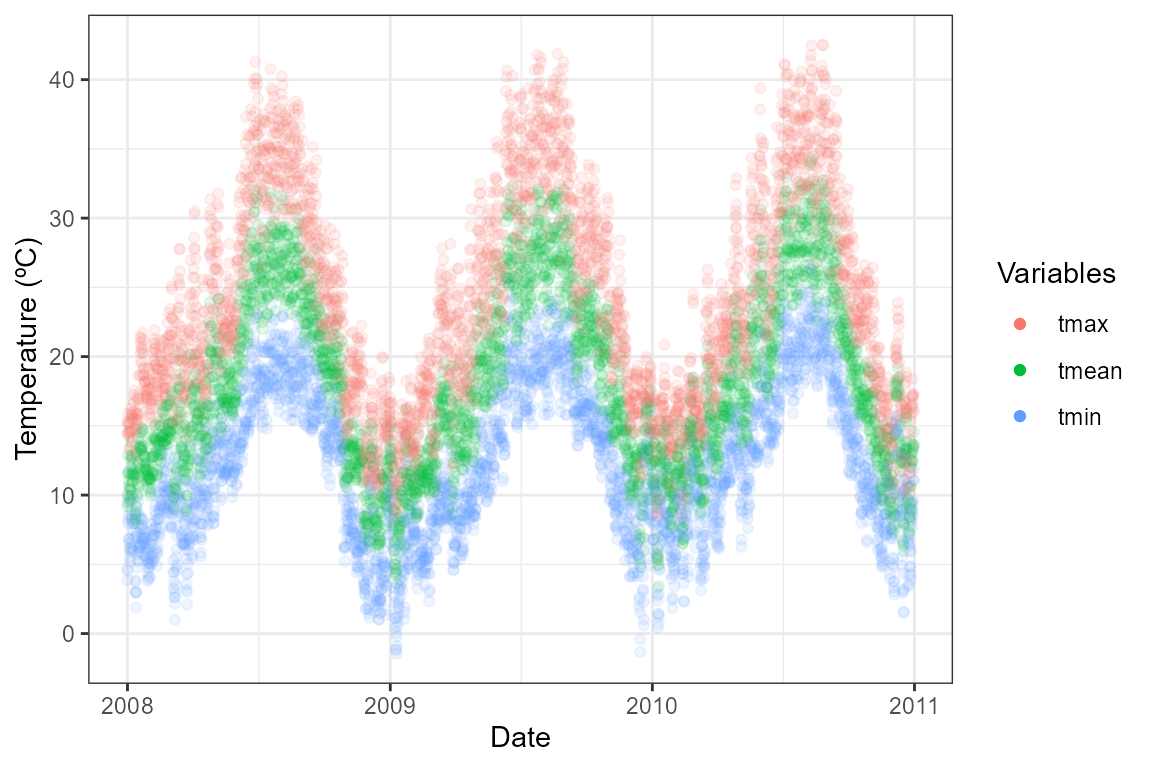
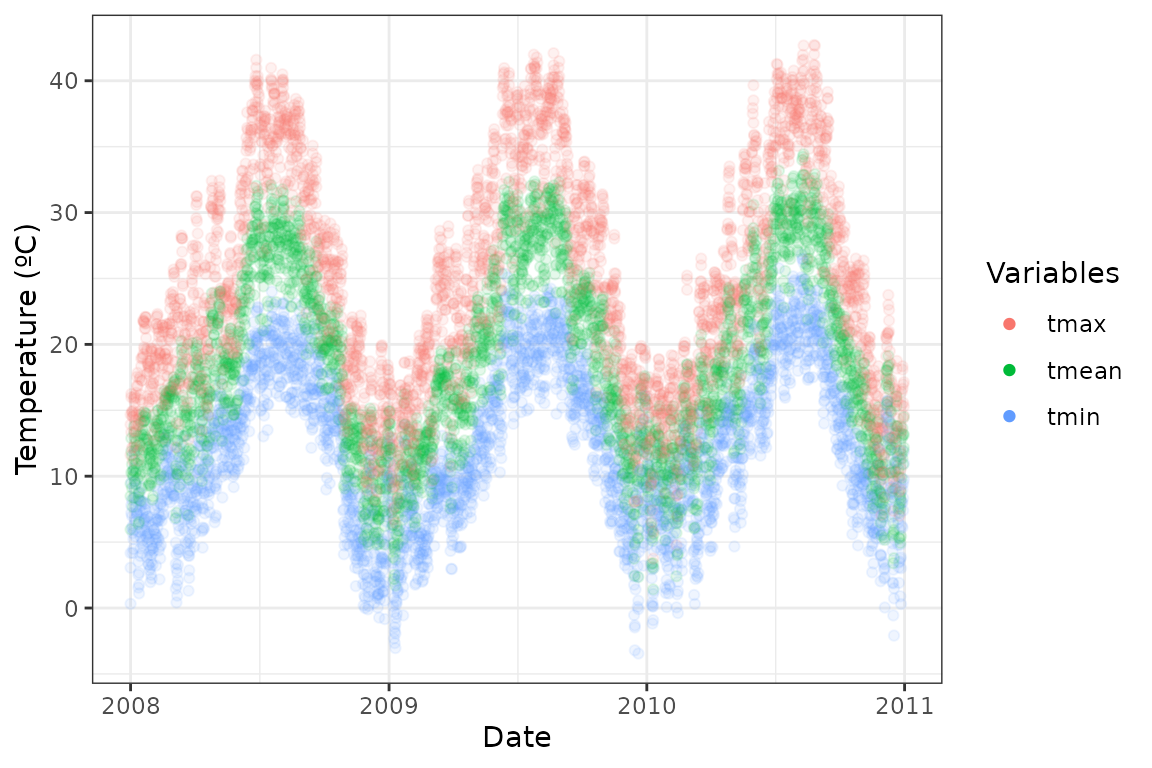
pkgdown

diff --git a/docs/articles/points-df-mat-sf.html b/docs/articles/points-df-mat-sf.html
@@ -82,7 +82,7 @@
 
       
 
-      </header><script src="points-df-mat-sf_files/header-attrs-2.8/header-attrs.js"></script><div class="row">
+      </header><script src="points-df-mat-sf_files/header-attrs-2.11/header-attrs.js"></script><div class="row">
   <div class="col-md-9 contents">
     <div class="page-header toc-ignore">
       <h1 data-toc-skip>Analysing the climate at spatial points for a given period</h1>
@@ -95,7 +95,6 @@
 
     
     
-<pre><code>## Warning: package 'knitr' was built under R version 4.0.5</code></pre>
 <p>With <code>easyclimate</code> you can easily download daily climate data for a given set of points or polygons within Europe. To download and install the latest version of <code>easyclimate</code> from github follow the instructions in <a href="https://github.com/VeruGHub/easyclimate" class="uri">https://github.com/VeruGHub/easyclimate</a></p>
 <p><br></p>
 <p>In this tutorial we will work through the basics of using easyclimate with coordinate points. You can enter coordinates as a <code>data.frame</code>, <code>matrix</code>, or <code>sf</code> object. At the end we will have a data frame with climate variables for each point.</p>
@@ -104,7 +103,7 @@
 <h1 class="hasAnchor">
 <a href="#example-1-introducing-coordinates-as-a-data-frame" class="anchor"></a>Example 1: Introducing coordinates as a data frame</h1>
 <p>First, specify longitude and latitude coordinates in a data frame with the column names <code>lon</code> and <code>lat</code>. Here we are simulating coordinates for three random sites in southern Spain</p>
-<div class="sourceCode" id="cb2"><pre class="downlit sourceCode r">
+<div class="sourceCode" id="cb1"><pre class="downlit sourceCode r">
 <code class="sourceCode R"><span class="kw"><a href="https://rdrr.io/r/base/library.html">library</a></span><span class="op">(</span><span class="va"><a href="https://github.com/VeruGHub/easyclimate">easyclimate</a></span><span class="op">)</span>
 <span class="kw"><a href="https://rdrr.io/r/base/library.html">library</a></span><span class="op">(</span><span class="va"><a href="https://ggplot2.tidyverse.org">ggplot2</a></span><span class="op">)</span>
 <span class="kw"><a href="https://rdrr.io/r/base/library.html">library</a></span><span class="op">(</span><span class="va"><a href="https://dplyr.tidyverse.org">dplyr</a></span><span class="op">)</span>
@@ -124,10 +123,10 @@
 <p><img src="points-df-mat-sf_files/figure-html/unnamed-chunk-1-1.png" width="576"></p>
 <p><br></p>
 <p>Now, download the climatic data for the selected locations. It is very simple, all you have to do is use the function <code>get_daily_climate</code>, specify the period (e.g. <code>2008-05-25</code> for a single day or <code>2008:2010</code> for several years), and the variables to be downloaded (precipitation <code>Prcp</code>, minimum temperature <code>Tmin</code> or maximum temperature <code>Tmax</code>).</p>
-<div class="sourceCode" id="cb3"><pre class="downlit sourceCode r">
+<div class="sourceCode" id="cb2"><pre class="downlit sourceCode r">
 <code class="sourceCode R">
 <span class="fu"><a href="https://rdrr.io/r/base/Sys.time.html">Sys.time</a></span><span class="op">(</span><span class="op">)</span> <span class="co"># to know how much it takes to download</span>
-<span class="co">## [1] "2021-07-09 23:33:45 EDT"</span>
+<span class="co">## [1] "2021-10-14 11:55:41 CEST"</span>
 
 <span class="va">df_prcp</span> <span class="op">&lt;-</span> <span class="fu"><a href="../reference/get_daily_climate.html">get_daily_climate</a></span><span class="op">(</span>
   coords <span class="op">=</span> <span class="va">coords</span>, 
@@ -148,18 +147,18 @@
 <span class="op">)</span>
 
 <span class="fu"><a href="https://rdrr.io/r/base/Sys.time.html">Sys.time</a></span><span class="op">(</span><span class="op">)</span>
-<span class="co">## [1] "2021-07-09 23:39:36 EDT"</span>
+<span class="co">## [1] "2021-10-14 11:57:28 CEST"</span>
 
 <span class="fu"><a href="https://rdrr.io/pkg/terra/man/headtail.html">head</a></span><span class="op">(</span><span class="va">df_prcp</span><span class="op">[</span>, <span class="fu"><a href="https://rdrr.io/pkg/terra/man/c.html">c</a></span><span class="op">(</span><span class="st">"lon"</span>, <span class="st">"lat"</span>, <span class="st">"date"</span>, <span class="st">"Prcp"</span><span class="op">)</span><span class="op">]</span><span class="op">)</span>
 <span class="co">##         lon      lat       date Prcp</span>
-<span class="co">## 1 -5.836705 37.42518 2008-01-01  730</span>
-<span class="co">## 2 -5.836705 37.42518 2008-01-02 2349</span>
-<span class="co">## 3 -5.836705 37.42518 2008-01-03  309</span>
-<span class="co">## 4 -5.836705 37.42518 2008-01-04    0</span>
-<span class="co">## 5 -5.836705 37.42518 2008-01-05    0</span>
-<span class="co">## 6 -5.836705 37.42518 2008-01-06    0</span></code></pre></div>
+<span class="co">## 1 -5.356912 37.69926 2008-01-01  518</span>
+<span class="co">## 2 -5.356912 37.69926 2008-01-02 2720</span>
+<span class="co">## 3 -5.356912 37.69926 2008-01-03  560</span>
+<span class="co">## 4 -5.356912 37.69926 2008-01-04    0</span>
+<span class="co">## 5 -5.356912 37.69926 2008-01-05    0</span>
+<span class="co">## 6 -5.356912 37.69926 2008-01-06    0</span></code></pre></div>
 <p>Temperature and precipitation units are ºC*100 and mm*100, respectively, to avoid floating values. You can change the units using the mutate function and join all the variables in a data frame.</p>
-<div class="sourceCode" id="cb4"><pre class="downlit sourceCode r">
+<div class="sourceCode" id="cb3"><pre class="downlit sourceCode r">
 <code class="sourceCode R">
 <span class="va">prcp_date</span> <span class="op">&lt;-</span> <span class="va">df_prcp</span> <span class="op">%&gt;%</span>
   <span class="fu"><a href="https://dplyr.tidyverse.org/reference/mutate.html">mutate</a></span><span class="op">(</span>prcp <span class="op">=</span> <span class="va">Prcp</span> <span class="op">/</span> <span class="fl">100</span><span class="op">)</span> <span class="op">%&gt;%</span> 
@@ -200,75 +199,75 @@
 <tbody>
 <tr class="odd">
 <td align="right">1</td>
-<td align="right">-5.836705</td>
-<td align="right">37.42518</td>
+<td align="right">-5.356912</td>
+<td align="right">37.69926</td>
 <td align="left">2008-01-01</td>
 <td align="left">08</td>
 <td align="left">enero</td>
-<td align="right">7.30</td>
-<td align="right">4.52</td>
-<td align="right">14.39</td>
+<td align="right">5.18</td>
+<td align="right">3.06</td>
+<td align="right">13.92</td>
 </tr>
 <tr class="even">
 <td align="right">1</td>
-<td align="right">-5.836705</td>
-<td align="right">37.42518</td>
+<td align="right">-5.356912</td>
+<td align="right">37.69926</td>
 <td align="left">2008-01-02</td>
 <td align="left">08</td>
 <td align="left">enero</td>
-<td align="right">23.49</td>
-<td align="right">9.85</td>
-<td align="right">15.91</td>
+<td align="right">27.20</td>
+<td align="right">7.79</td>
+<td align="right">15.99</td>
 </tr>
 <tr class="odd">
 <td align="right">1</td>
-<td align="right">-5.836705</td>
-<td align="right">37.42518</td>
+<td align="right">-5.356912</td>
+<td align="right">37.69926</td>
 <td align="left">2008-01-03</td>
 <td align="left">08</td>
 <td align="left">enero</td>
-<td align="right">3.09</td>
-<td align="right">8.54</td>
-<td align="right">14.60</td>
+<td align="right">5.60</td>
+<td align="right">6.97</td>
+<td align="right">14.82</td>
 </tr>
 <tr class="even">
 <td align="right">1</td>
-<td align="right">-5.836705</td>
-<td align="right">37.42518</td>
+<td align="right">-5.356912</td>
+<td align="right">37.69926</td>
 <td align="left">2008-01-04</td>
 <td align="left">08</td>
 <td align="left">enero</td>
 <td align="right">0.00</td>
-<td align="right">6.55</td>
-<td align="right">14.21</td>
+<td align="right">5.68</td>
+<td align="right">14.50</td>
 </tr>
 <tr class="odd">
 <td align="right">1</td>
-<td align="right">-5.836705</td>
-<td align="right">37.42518</td>
+<td align="right">-5.356912</td>
+<td align="right">37.69926</td>
 <td align="left">2008-01-05</td>
 <td align="left">08</td>
 <td align="left">enero</td>
 <td align="right">0.00</td>
-<td align="right">6.21</td>
-<td align="right">14.64</td>
+<td align="right">5.23</td>
+<td align="right">14.73</td>
 </tr>
 <tr class="even">
 <td align="right">1</td>
-<td align="right">-5.836705</td>
-<td align="right">37.42518</td>
+<td align="right">-5.356912</td>
+<td align="right">37.69926</td>
 <td align="left">2008-01-06</td>
 <td align="left">08</td>
 <td align="left">enero</td>
 <td align="right">0.00</td>
-<td align="right">12.06</td>
-<td align="right">15.52</td>
+<td align="right">10.62</td>
+<td align="right">15.99</td>
 </tr>
 </tbody>
 </table>
 <p><br></p>
 <p>Finally, you can visualize the daily climate results. For example, let’s plot the precipitation for one of the sites:</p>
-<div class="sourceCode" id="cb5"><pre class="downlit sourceCode r">
+<div class="sourceCode" id="cb4"><pre class="downlit sourceCode r">
 <code class="sourceCode R"><span class="va">clim_site1</span> <span class="op">&lt;-</span> <span class="va">clim_join</span> <span class="op">%&gt;%</span> 
   <span class="fu"><a href="https://dplyr.tidyverse.org/reference/filter.html">filter</a></span><span class="op">(</span><span class="va">ID_coords</span> <span class="op">==</span> <span class="fl">1</span><span class="op">)</span>
 
@@ -279,12 +278,12 @@
 <p><img src="points-df-mat-sf_files/figure-html/unnamed-chunk-4-1.png" width="576"></p>
 <p><br></p>
 <p>Or calculate the daily mean temperature and plot it against <code>tmin</code> and <code>tmax</code>:</p>
-<div class="sourceCode" id="cb6"><pre class="downlit sourceCode r">
+<div class="sourceCode" id="cb5"><pre class="downlit sourceCode r">
 <code class="sourceCode R"><span class="kw"><a href="https://rdrr.io/r/base/library.html">library</a></span><span class="op">(</span><span class="va"><a href="https://tidyr.tidyverse.org">tidyr</a></span><span class="op">)</span>
 
 <span class="va">clim_df</span> <span class="op">&lt;-</span> <span class="va">clim_join</span> <span class="op">%&gt;%</span>
   <span class="fu"><a href="https://dplyr.tidyverse.org/reference/mutate.html">mutate</a></span><span class="op">(</span>tmean <span class="op">=</span> <span class="op">(</span><span class="va">tmin</span> <span class="op">+</span> <span class="va">tmax</span><span class="op">)</span> <span class="op">/</span> <span class="fl">2</span><span class="op">)</span> <span class="op">%&gt;%</span>
-  <span class="fu"><a href="https://tidyr.tidyverse.org/reference/pivot_longer.html">pivot_longer</a></span><span class="op">(</span>
+  <span class="fu"><a href="https://rdrr.io/pkg/tidyr/man/pivot_longer.html">pivot_longer</a></span><span class="op">(</span>
     cols <span class="op">=</span> <span class="fu"><a href="https://rdrr.io/pkg/terra/man/c.html">c</a></span><span class="op">(</span><span class="st">"tmin"</span>, <span class="st">"tmax"</span>, <span class="st">"tmean"</span><span class="op">)</span>,
     names_to <span class="op">=</span> <span class="st">"temp_vars"</span>,
     values_to <span class="op">=</span> <span class="st">"temp_values"</span><span class="op">)</span>
@@ -295,11 +294,11 @@
   <span class="fu"><a href="https://ggplot2.tidyverse.org/reference/labs.html">ylab</a></span><span class="op">(</span><span class="st">"Temperature (ºC)"</span><span class="op">)</span> <span class="op">+</span> <span class="fu"><a href="https://ggplot2.tidyverse.org/reference/labs.html">xlab</a></span><span class="op">(</span><span class="st">""</span><span class="op">)</span> <span class="op">+</span>
   <span class="fu"><a href="https://ggplot2.tidyverse.org/reference/ggtheme.html">theme_bw</a></span><span class="op">(</span><span class="op">)</span></code></pre></div>
 <p><img src="points-df-mat-sf_files/figure-html/unnamed-chunk-5-1.png" width="576"></p>
-<div class="sourceCode" id="cb7"><pre class="downlit sourceCode r">
+<div class="sourceCode" id="cb6"><pre class="downlit sourceCode r">
 <code class="sourceCode R">
 <span class="fu"><a href="https://ggplot2.tidyverse.org/reference/ggplot.html">ggplot</a></span><span class="op">(</span><span class="va">clim_df</span>, <span class="fu"><a href="https://ggplot2.tidyverse.org/reference/aes.html">aes</a></span><span class="op">(</span>x <span class="op">=</span> <span class="va">date</span>, y <span class="op">=</span> <span class="va">temp_values</span>, color <span class="op">=</span> <span class="va">temp_vars</span><span class="op">)</span><span class="op">)</span> <span class="op">+</span> 
   <span class="fu"><a href="https://ggplot2.tidyverse.org/reference/geom_point.html">geom_point</a></span><span class="op">(</span>alpha <span class="op">=</span> <span class="fl">.1</span><span class="op">)</span> <span class="op">+</span>
-  <span class="fu"><a href="https://ggplot2.tidyverse.org/reference/scale_hue.html">scale_color_discrete</a></span><span class="op">(</span>name <span class="op">=</span> <span class="st">"Variables"</span>, 
+  <span class="fu"><a href="https://ggplot2.tidyverse.org/reference/scale_colour_discrete.html">scale_color_discrete</a></span><span class="op">(</span>name <span class="op">=</span> <span class="st">"Variables"</span>, 
                        guide <span class="op">=</span> <span class="fu"><a href="https://ggplot2.tidyverse.org/reference/guide_legend.html">guide_legend</a></span><span class="op">(</span>override.aes <span class="op">=</span> <span class="fu"><a href="https://rdrr.io/r/base/list.html">list</a></span><span class="op">(</span>alpha <span class="op">=</span> <span class="fl">1</span><span class="op">)</span><span class="op">)</span><span class="op">)</span> <span class="op">+</span>
   <span class="fu"><a href="https://ggplot2.tidyverse.org/reference/labs.html">ylab</a></span><span class="op">(</span><span class="st">"Temperature (ºC)"</span><span class="op">)</span> <span class="op">+</span> <span class="fu"><a href="https://ggplot2.tidyverse.org/reference/labs.html">xlab</a></span><span class="op">(</span><span class="st">"Date"</span><span class="op">)</span> <span class="op">+</span>
   <span class="fu"><a href="https://ggplot2.tidyverse.org/reference/ggtheme.html">theme_bw</a></span><span class="op">(</span><span class="op">)</span></code></pre></div>
@@ -311,12 +310,12 @@
 <a href="#example-2-introducing-coordinates-as-a-matrix" class="anchor"></a>Example 2: Introducing coordinates as a matrix</h1>
 <p><code>easyclimate</code> handles different input data, try now with matrices!</p>
 <p>Here we are retrieving daily precipitation data for a single year (2008).</p>
-<div class="sourceCode" id="cb8"><pre class="downlit sourceCode r">
+<div class="sourceCode" id="cb7"><pre class="downlit sourceCode r">
 <code class="sourceCode R">
 <span class="va">coords_mat</span> <span class="op">&lt;-</span> <span class="fu"><a href="https://rdrr.io/pkg/terra/man/coerce.html">as.matrix</a></span><span class="op">(</span><span class="va">coords</span><span class="op">)</span>
 
 <span class="fu"><a href="https://rdrr.io/r/base/Sys.time.html">Sys.time</a></span><span class="op">(</span><span class="op">)</span>
-<span class="co">## [1] "2021-07-09 23:39:42 EDT"</span>
+<span class="co">## [1] "2021-10-14 11:57:29 CEST"</span>
 
 <span class="va">mat_prcp</span> <span class="op">&lt;-</span> <span class="fu"><a href="../reference/get_daily_climate.html">get_daily_climate</a></span><span class="op">(</span> 
   coords <span class="op">=</span> <span class="va">coords_mat</span>, 
@@ -325,16 +324,16 @@
 <span class="op">)</span>
 
 <span class="fu"><a href="https://rdrr.io/r/base/Sys.time.html">Sys.time</a></span><span class="op">(</span><span class="op">)</span>
-<span class="co">## [1] "2021-07-09 23:40:01 EDT"</span>
+<span class="co">## [1] "2021-10-14 11:57:36 CEST"</span>
 
 <span class="fu"><a href="https://rdrr.io/pkg/terra/man/headtail.html">head</a></span><span class="op">(</span><span class="va">mat_prcp</span><span class="op">)</span>
 <span class="co">##   ID_coords         x        y       date Prcp</span>
-<span class="co">## 1         1 -5.836705 37.42518 2008-01-01  730</span>
-<span class="co">## 2         1 -5.836705 37.42518 2008-01-02 2349</span>
-<span class="co">## 3         1 -5.836705 37.42518 2008-01-03  309</span>
-<span class="co">## 4         1 -5.836705 37.42518 2008-01-04    0</span>
-<span class="co">## 5         1 -5.836705 37.42518 2008-01-05    0</span>
-<span class="co">## 6         1 -5.836705 37.42518 2008-01-06    0</span>
+<span class="co">## 1         1 -5.356912 37.69926 2008-01-01  518</span>
+<span class="co">## 2         1 -5.356912 37.69926 2008-01-02 2720</span>
+<span class="co">## 3         1 -5.356912 37.69926 2008-01-03  560</span>
+<span class="co">## 4         1 -5.356912 37.69926 2008-01-04    0</span>
+<span class="co">## 5         1 -5.356912 37.69926 2008-01-05    0</span>
+<span class="co">## 6         1 -5.356912 37.69926 2008-01-06    0</span>
 
 <span class="va">clim_mat</span> <span class="op">&lt;-</span> <span class="va">mat_prcp</span> <span class="op">%&gt;%</span>
   <span class="fu"><a href="https://dplyr.tidyverse.org/reference/mutate.html">mutate</a></span><span class="op">(</span>
@@ -353,7 +352,7 @@
   <span class="fu"><a href="https://ggplot2.tidyverse.org/reference/labs.html">ylab</a></span><span class="op">(</span><span class="st">"Daily precipitation (mm)"</span><span class="op">)</span> <span class="op">+</span> <span class="fu"><a href="https://ggplot2.tidyverse.org/reference/labs.html">xlab</a></span><span class="op">(</span><span class="st">"Date"</span><span class="op">)</span> <span class="op">+</span>
   <span class="fu"><a href="https://ggplot2.tidyverse.org/reference/ggtheme.html">theme_bw</a></span><span class="op">(</span><span class="op">)</span></code></pre></div>
 <p><img src="points-df-mat-sf_files/figure-html/unnamed-chunk-6-1.png" width="576"></p>
-<div class="sourceCode" id="cb9"><pre class="downlit sourceCode r">
+<div class="sourceCode" id="cb8"><pre class="downlit sourceCode r">
 <code class="sourceCode R">
 <span class="va">month_name</span> <span class="op">&lt;-</span> <span class="fu"><a href="https://rdrr.io/r/base/format.html">format</a></span><span class="op">(</span><span class="fu"><a href="https://rdrr.io/r/base/ISOdatetime.html">ISOdate</a></span><span class="op">(</span><span class="fl">2021</span>, <span class="fl">1</span><span class="op">:</span><span class="fl">12</span>, <span class="fl">1</span><span class="op">)</span>, <span class="st">"%B"</span><span class="op">)</span>
 
@@ -372,7 +371,7 @@
 <h1 class="hasAnchor">
 <a href="#example-3-introducing-coordinates-as-simple-feature-objects" class="anchor"></a>Example 3: Introducing coordinates as simple feature objects</h1>
 <p>Here we introduce coordinates as a <code>sf</code> object, and retrieve minimum temperature for a single day (1 January 2001).</p>
-<div class="sourceCode" id="cb10"><pre class="downlit sourceCode r">
+<div class="sourceCode" id="cb9"><pre class="downlit sourceCode r">
 <code class="sourceCode R"><span class="kw"><a href="https://rdrr.io/r/base/library.html">library</a></span><span class="op">(</span><span class="va"><a href="https://r-spatial.github.io/sf/">sf</a></span><span class="op">)</span>
 
 <span class="va">coords_sf</span> <span class="op">&lt;-</span> <span class="fu"><a href="https://r-spatial.github.io/sf/reference/st_as_sf.html">st_as_sf</a></span><span class="op">(</span>

diff --git a/docs/articles/climatic-indices.html b/docs/articles/climatic-indices.html
@@ -82,7 +82,7 @@
 
       
 
-      </header><script src="climatic-indices_files/header-attrs-2.8/header-attrs.js"></script><div class="row">
+      </header><script src="climatic-indices_files/header-attrs-2.11/header-attrs.js"></script><div class="row">
   <div class="col-md-9 contents">
     <div class="page-header toc-ignore">
       <h1 data-toc-skip>Calculating basic climatic indices with data from easyclimate</h1>
@@ -140,7 +140,7 @@
   <span class="fu"><a href="https://dplyr.tidyverse.org/reference/summarise.html">summarise</a></span><span class="op">(</span>Tmin.site <span class="op">=</span> <span class="fu"><a href="https://rdrr.io/pkg/terra/man/summarize-generics.html">mean</a></span><span class="op">(</span><span class="va">Tmin</span><span class="op">)</span>,
             Tmean.site <span class="op">=</span> <span class="fu"><a href="https://rdrr.io/pkg/terra/man/summarize-generics.html">mean</a></span><span class="op">(</span><span class="va">Tmean</span><span class="op">)</span>,
             Tmax.site <span class="op">=</span> <span class="fu"><a href="https://rdrr.io/pkg/terra/man/summarize-generics.html">mean</a></span><span class="op">(</span><span class="va">Tmax</span><span class="op">)</span><span class="op">)</span>
-<span class="co">## # A tibble: 1 x 4</span>
+<span class="co">## # A tibble: 1 × 4</span>
 <span class="co">##   ID_coords Tmin.site Tmean.site Tmax.site</span>
 <span class="co">##       &lt;dbl&gt;     &lt;dbl&gt;      &lt;dbl&gt;     &lt;dbl&gt;</span>
 <span class="co">## 1         1      11.7       18.4      25.0</span>
@@ -521,7 +521,7 @@
     <span class="fu"><a href="https://dplyr.tidyverse.org/reference/summarise.html">summarise</a></span><span class="op">(</span>max_heatwave <span class="op">=</span> <span class="fu"><a href="https://rdrr.io/pkg/terra/man/summarize-generics.html">max</a></span><span class="op">(</span><span class="va">length</span><span class="op">)</span>, <span class="co"># longest heatwave per year (in days)</span>
               mean_heatwave <span class="op">=</span> <span class="fu"><a href="https://rdrr.io/pkg/terra/man/summarize-generics.html">mean</a></span><span class="op">(</span><span class="va">length</span><span class="op">)</span>, <span class="co"># average length of heatwaves per year</span>
               n_heatwave <span class="op">=</span> <span class="fu"><a href="https://dplyr.tidyverse.org/reference/context.html">n</a></span><span class="op">(</span><span class="op">)</span><span class="op">)</span> <span class="op">%&gt;%</span> <span class="co"># No. of events per year</span>
-    <span class="fu"><a href="https://tidyr.tidyverse.org/reference/complete.html">complete</a></span><span class="op">(</span><span class="va">ID_coords</span>, <span class="va">year</span>, 
+    <span class="fu"><a href="https://rdrr.io/pkg/tidyr/man/complete.html">complete</a></span><span class="op">(</span><span class="va">ID_coords</span>, <span class="va">year</span>, 
              fill <span class="op">=</span> <span class="fu"><a href="https://rdrr.io/r/base/list.html">list</a></span><span class="op">(</span>max_heatwave <span class="op">=</span> <span class="cn">NA</span>, mean_heatwave <span class="op">=</span> <span class="cn">NA</span>, nevents <span class="op">=</span> <span class="fl">0</span><span class="op">)</span><span class="op">)</span> <span class="op">%&gt;%</span> 
   <span class="fu">kable</span><span class="op">(</span>digits <span class="op">=</span> <span class="fl">1</span><span class="op">)</span></code></pre></div>
 <table class="table">
@@ -585,7 +585,7 @@
   <span class="fu"><a href="https://dplyr.tidyverse.org/reference/filter.html">filter</a></span><span class="op">(</span><span class="va">event</span> <span class="op">==</span> <span class="fl">1</span><span class="op">)</span> <span class="op">%&gt;%</span> 
   <span class="fu"><a href="https://dplyr.tidyverse.org/reference/group_by.html">group_by</a></span><span class="op">(</span><span class="va">ID_coords</span>, <span class="va">year</span>, <span class="va">n_frost</span><span class="op">)</span> <span class="op">%&gt;%</span> 
   <span class="fu"><a href="https://dplyr.tidyverse.org/reference/summarise.html">summarise</a></span><span class="op">(</span>Tmin_frost_avg <span class="op">=</span> <span class="fu"><a href="https://rdrr.io/pkg/terra/man/summarize-generics.html">mean</a></span><span class="op">(</span><span class="va">Tmin</span><span class="op">)</span><span class="op">/</span><span class="fl">100</span><span class="op">)</span> <span class="op">%&gt;%</span> <span class="co"># Mean minimum temperature of frost days</span>
-  <span class="fu"><a href="https://tidyr.tidyverse.org/reference/complete.html">complete</a></span><span class="op">(</span><span class="va">ID_coords</span>, <span class="va">year</span>, fill <span class="op">=</span> <span class="fu"><a href="https://rdrr.io/r/base/list.html">list</a></span><span class="op">(</span>n_frost <span class="op">=</span> <span class="fl">0</span>, Tmin_frost_avg <span class="op">=</span> <span class="cn">NA</span><span class="op">)</span><span class="op">)</span> <span class="op">%&gt;%</span> 
+  <span class="fu"><a href="https://rdrr.io/pkg/tidyr/man/complete.html">complete</a></span><span class="op">(</span><span class="va">ID_coords</span>, <span class="va">year</span>, fill <span class="op">=</span> <span class="fu"><a href="https://rdrr.io/r/base/list.html">list</a></span><span class="op">(</span>n_frost <span class="op">=</span> <span class="fl">0</span>, Tmin_frost_avg <span class="op">=</span> <span class="cn">NA</span><span class="op">)</span><span class="op">)</span> <span class="op">%&gt;%</span> 
   <span class="fu">kable</span><span class="op">(</span><span class="op">)</span></code></pre></div>
 <table class="table">
 <thead><tr class="header">
@@ -644,7 +644,7 @@
     <span class="fu"><a href="https://dplyr.tidyverse.org/reference/summarise.html">summarise</a></span><span class="op">(</span>max_days_norain <span class="op">=</span> <span class="fu"><a href="https://rdrr.io/pkg/terra/man/summarize-generics.html">max</a></span><span class="op">(</span><span class="va">length</span><span class="op">)</span>, <span class="co"># Maximum length of periods of consecutive days without rain per year</span>
               mean_days_norain <span class="op">=</span> <span class="fu"><a href="https://rdrr.io/pkg/terra/man/summarize-generics.html">mean</a></span><span class="op">(</span><span class="va">length</span><span class="op">)</span>, 
               nevents <span class="op">=</span> <span class="fu"><a href="https://rdrr.io/r/base/sum.html">sum</a></span><span class="op">(</span><span class="va">length</span> <span class="op">&gt;</span> <span class="va">threshold</span><span class="op">)</span><span class="op">)</span> <span class="op">%&gt;%</span> <span class="co"># No. of events per year</span>
-  <span class="fu"><a href="https://tidyr.tidyverse.org/reference/complete.html">complete</a></span><span class="op">(</span><span class="va">ID_coords</span>, <span class="va">year</span>, 
+  <span class="fu"><a href="https://rdrr.io/pkg/tidyr/man/complete.html">complete</a></span><span class="op">(</span><span class="va">ID_coords</span>, <span class="va">year</span>, 
            fill <span class="op">=</span> <span class="fu"><a href="https://rdrr.io/r/base/list.html">list</a></span><span class="op">(</span>max_days_norain <span class="op">=</span> <span class="cn">NA</span>, mean_days_norain <span class="op">=</span> <span class="cn">NA</span>, nevents <span class="op">=</span> <span class="fl">0</span><span class="op">)</span><span class="op">)</span> <span class="op">%&gt;%</span> 
   <span class="fu">kable</span><span class="op">(</span>digits <span class="op">=</span> <span class="fl">1</span><span class="op">)</span></code></pre></div>
 <table class="table">

diff --git a/docs/articles/polygons-raster.html b/docs/articles/polygons-raster.html
@@ -82,7 +82,7 @@
 
       
 
-      </header><script src="polygons-raster_files/header-attrs-2.8/header-attrs.js"></script><div class="row">
+      </header><script src="polygons-raster_files/header-attrs-2.11/header-attrs.js"></script><div class="row">
   <div class="col-md-9 contents">
     <div class="page-header toc-ignore">
       <h1 data-toc-skip>Analysing the climate of an area for a given period</h1>
@@ -106,7 +106,7 @@
 <span class="va">coords_t</span> <span class="op">&lt;-</span> <span class="fu"><a href="https://rdrr.io/pkg/terra/man/vect.html">vect</a></span><span class="op">(</span><span class="st">"POLYGON ((-4.5 41, -4.5 40.5, -5 40.5, -5 41))"</span><span class="op">)</span>
 
 <span class="fu"><a href="https://rdrr.io/r/base/Sys.time.html">Sys.time</a></span><span class="op">(</span><span class="op">)</span> <span class="co"># to know how much it takes to download</span>
-<span class="co">## [1] "2021-07-12 15:48:33 EDT"</span>
+<span class="co">## [1] "2021-10-14 11:57:54 CEST"</span>
 
 <span class="va">df_tmax</span> <span class="op">&lt;-</span> <span class="fu"><a href="../reference/get_daily_climate.html">get_daily_climate</a></span><span class="op">(</span>
   <span class="va">coords_t</span>,
@@ -116,7 +116,7 @@
   <span class="op">)</span>
 
 <span class="fu"><a href="https://rdrr.io/r/base/Sys.time.html">Sys.time</a></span><span class="op">(</span><span class="op">)</span>
-<span class="co">## [1] "2021-07-12 15:48:57 EDT"</span>
+<span class="co">## [1] "2021-10-14 11:58:07 CEST"</span>
 
 <span class="fu"><a href="https://rdrr.io/pkg/terra/man/headtail.html">head</a></span><span class="op">(</span><span class="va">df_tmax</span><span class="op">)</span>
 <span class="co">##   ID_coords         x        y       date Tmax</span>
@@ -161,7 +161,7 @@
 <div class="sourceCode" id="cb4"><pre class="downlit sourceCode r">
 <code class="sourceCode R">
 <span class="fu"><a href="https://rdrr.io/r/base/Sys.time.html">Sys.time</a></span><span class="op">(</span><span class="op">)</span>
-<span class="co">## [1] "2021-07-12 15:49:18 EDT"</span>
+<span class="co">## [1] "2021-10-14 11:58:09 CEST"</span>
 
 <span class="va">ras_tmax</span> <span class="op">&lt;-</span> <span class="fu"><a href="../reference/get_daily_climate.html">get_daily_climate</a></span><span class="op">(</span>
   <span class="va">coords_t</span>,
@@ -171,14 +171,14 @@
   <span class="op">)</span>
 
 <span class="fu"><a href="https://rdrr.io/r/base/Sys.time.html">Sys.time</a></span><span class="op">(</span><span class="op">)</span>
-<span class="co">## [1] "2021-07-12 15:49:42 EDT"</span>
+<span class="co">## [1] "2021-10-14 11:58:23 CEST"</span>
 
 <span class="va">ras_tmax</span>
 <span class="co">## class       : SpatRaster </span>
 <span class="co">## dimensions  : 60, 60, 2  (nrow, ncol, nlyr)</span>
 <span class="co">## resolution  : 0.008333333, 0.008333333  (x, y)</span>
 <span class="co">## extent      : -5, -4.5, 40.5, 41  (xmin, xmax, ymin, ymax)</span>
-<span class="co">## coord. ref. : +proj=longlat +datum=WGS84 +no_defs </span>
+<span class="co">## coord. ref. : lon/lat WGS 84 (EPSG:4326) </span>
 <span class="co">## source      : memory </span>
 <span class="co">## names       : 2012-01-01, 2012-08-01 </span>
 <span class="co">## min values  :        981,       2605 </span>

diff --git a/docs/index.html b/docs/index.html
@@ -88,9 +88,9 @@
       </header><div class="row">
   <div class="contents col-md-9">
 
-<div id="easyclimate" class="section level1">
+<div id="easyclimate-" class="section level1">
 <div class="page-header"><h1 class="hasAnchor">
-<a href="#easyclimate" class="anchor"></a><code>easyclimate</code>
+<a href="#easyclimate-" class="anchor"></a><code>easyclimate</code> <a href="https://verughub.github.io/easyclimate/"><img src="reference/figures/easyclimate_logo.png" align="right" height="139"></a>
 </h1></div>
 </div>
 <div id="easy-access-to-high-resolution-daily-climate-data-for-europe" class="section level1">
@@ -179,9 +179,9 @@
 <h2 class="hasAnchor">
 <a href="#citation" class="anchor"></a>CITATION</h2>
 <p>If you use easyclimate, please cite both the data source and the package as:</p>
+<p>Moreno A, Hasenauer H (2016). “Spatial downscaling of European climate data.” <em>International Journal of Climatology</em>, 1444–1458. &lt;URL: <a href="https://doi.org/10.1002/joc.4436" class="uri">https://doi.org/10.1002/joc.4436</a>&gt;.</p>
 <p>Rammer W, Pucher C, Neumann M (2018). <em>Description, Evaluation and Validation of Downscaled Daily Climate Data Version 2</em>. &lt;URL: <a href="ftp://palantir.boku.ac.at/Public/ClimateData/" class="uri">ftp://palantir.boku.ac.at/Public/ClimateData/</a>&gt;.</p>
-<p>Moreno A, Hasenauer H (2016). “Spatial downscaling of European climate data.” <em>International Journal of Climatology</em>, 1444–1458.</p>
-<p>Cruz-Alonso V, Rodríguez-Sánchez F, Pucher C, Ratcliffe S, Astigarraga J, Neumann M, Ruiz-Benito P (2021). <em>easyclimate: Easy access to high-resolution daily climate data for Europe</em>. &lt;URL: <a href="https://github.com/VeruGHub/easyclimate" class="uri">https://github.com/VeruGHub/easyclimate</a>&gt;.</p>
+<p>Cruz-Alonso V, Rodríguez-Sánchez F, Pucher C, Ruiz-Benito P, Astigarraga J, Neumann M, Ratcliffe S (2021). <em>easyclimate: Easy access to high-resolution daily climate data for Europe</em>. &lt;URL: <a href="https://github.com/VeruGHub/easyclimate" class="uri">https://github.com/VeruGHub/easyclimate</a>&gt;.</p>
 </div>
 </div>
 
